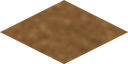
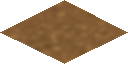
fix: eliminate dirt path tile seam underlay

diff --git a/tools/generate_dirt_paths.py b/tools/generate_dirt_paths.py
@@ -30,10 +30,18 @@ def diamond() -> Image.Image:
     ImageDraw.Draw(alpha).polygon(((NW//2, 0), (NW, NH//2), (NW//2, NH), (0, NH//2)), fill=255)
     return alpha
 
-def dirt_surface(mask: int) -> Image.Image:
+def display_diamond() -> Image.Image:
+    """Hard shared edges: filtered alpha leaves hairline grass seams."""
+    alpha = Image.new("L", (W, H), 0)
+    ImageDraw.Draw(alpha).polygon(((W // 2, 0), (W - 1, H // 2), (W // 2, H - 1), (0, H // 2)), fill=255)
+    return alpha
+
+def dirt_surface() -> Image.Image:
     # Coarse, low-contrast grains survive the 4x downsample as old tycoon
     # terrain, rather than as salt-and-pepper noise.
-    seed = int.from_bytes(hashlib.sha256(f"CH_DIRT_PATH_V1:{mask}".encode()).digest()[:8], "big")
+    # All sixteen masks share one material domain.  Mask-specific random
+    # textures make adjacent tiles look like separately stamped squares.
+    seed = int.from_bytes(hashlib.sha256(b"CH_DIRT_PATH_V1:shared-surface").digest()[:8], "big")
     import random
     rng = random.Random(seed)
     base = Image.new("RGB", (NW, NH), (129, 91, 51))
@@ -47,7 +55,7 @@ def dirt_surface(mask: int) -> Image.Image:
 
 def render(mask: int) -> Image.Image:
     alpha = diamond()
-    image = dirt_surface(mask)
+    image = dirt_surface()
     # Subtle compacted wear tells the topology apart, but does not make a
     # corridor: every tile remains a walkable dirt surface.
     wear = Image.new("RGBA", (NW, NH), (0, 0, 0, 0))
@@ -60,7 +68,11 @@ def render(mask: int) -> Image.Image:
     wear = wear.filter(ImageFilter.GaussianBlur(SS * 2.4))
     image = Image.alpha_composite(image, wear)
     image.putalpha(alpha)
-    return image.resize((W, H), Image.Resampling.LANCZOS)
+    result = image.resize((W, H), Image.Resampling.LANCZOS)
+    # Keep the shared edge hard. Filtered alpha would blend grass into the
+    # join and reveal a hairline where two diamonds meet.
+    result.putalpha(display_diamond())
+    return result
 
 def preview(tiles: dict[int, Image.Image], path: Path) -> None:
     canvas = Image.new("RGBA", (768, 384), (87, 126, 62, 255))

diff --git a/src/ch_render/map_renderer.cpp b/src/ch_render/map_renderer.cpp
@@ -369,16 +369,18 @@ void MapRenderer::render_world_terrain_and_water(
     // 1. Terrain Base
     render_map(renderer, grass_base, scenario_terrain_textures, camera, viewport_width, viewport_height);
 
-    // 1.5 Ground paths.  Their connection mask comes from neighbouring
-    // ground terrain in the map document, so there is no road, vehicle or
-    // building-access side effect.
+    // 1.5 Ground paths. Their connection mask comes from neighbouring
+    // ground terrain, never RoadManager. First paint an opaque soil underlay:
+    // it owns every shared raster edge, so adjacent sprites cannot reveal a
+    // grass/alpha hairline at any camera zoom.
+    constexpr SDL_FColor kDirtUnderlay = {0.50F, 0.35F, 0.20F, 1.0F};
+    for (const auto& tile : dirt_path_tiles) {
+        render_tile_fill(renderer, tile.tile_x, tile.tile_y, camera, viewport_width, viewport_height, kDirtUnderlay);
+    }
     for (const auto& tile : dirt_path_tiles) {
         const TileConnectionMask visual_connections = camera_visual_connections(tile.connections, camera.rotation);
         if (const TextureAsset* sprite = find_texture(dirt_path_sprite(visual_connections))) {
             render_custom_terrain_tile(renderer, *sprite, tile.tile_x, tile.tile_y, camera, viewport_width, viewport_height);
-        } else {
-            render_tile_fill(renderer, tile.tile_x, tile.tile_y, camera, viewport_width, viewport_height,
-                             SDL_FColor{0.48F, 0.35F, 0.21F, 1.0F});
         }
     }
 
